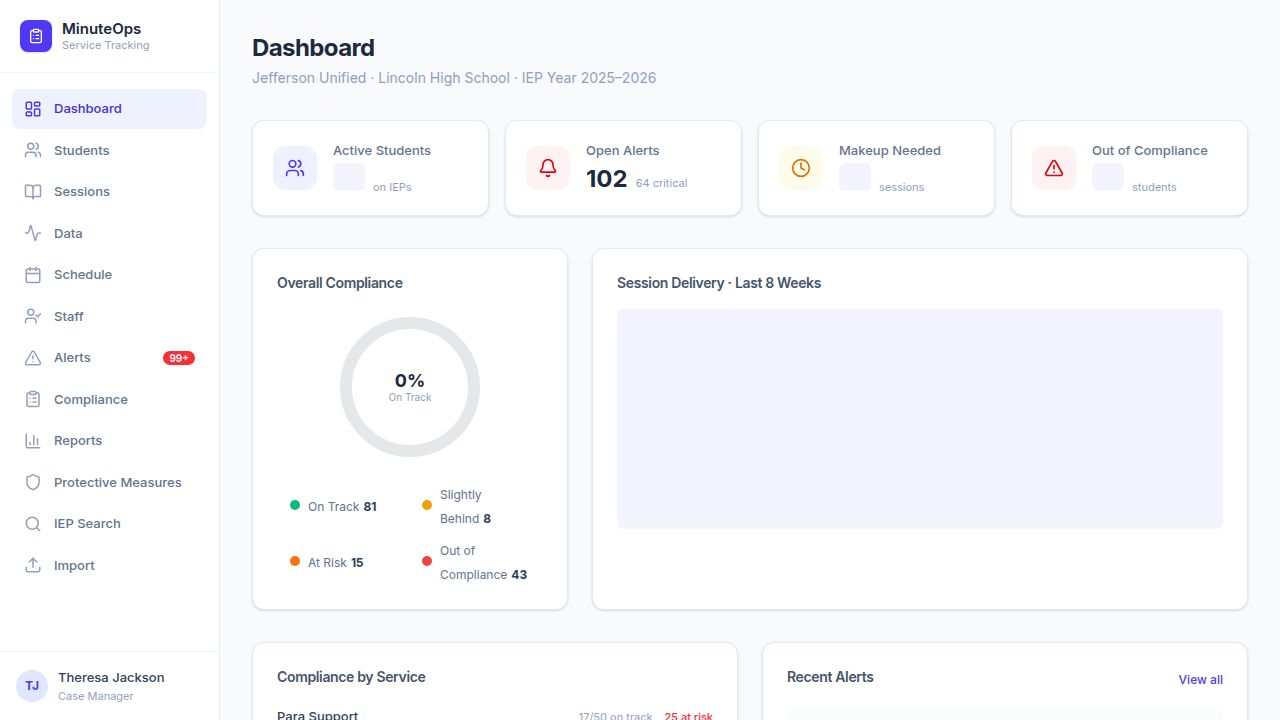
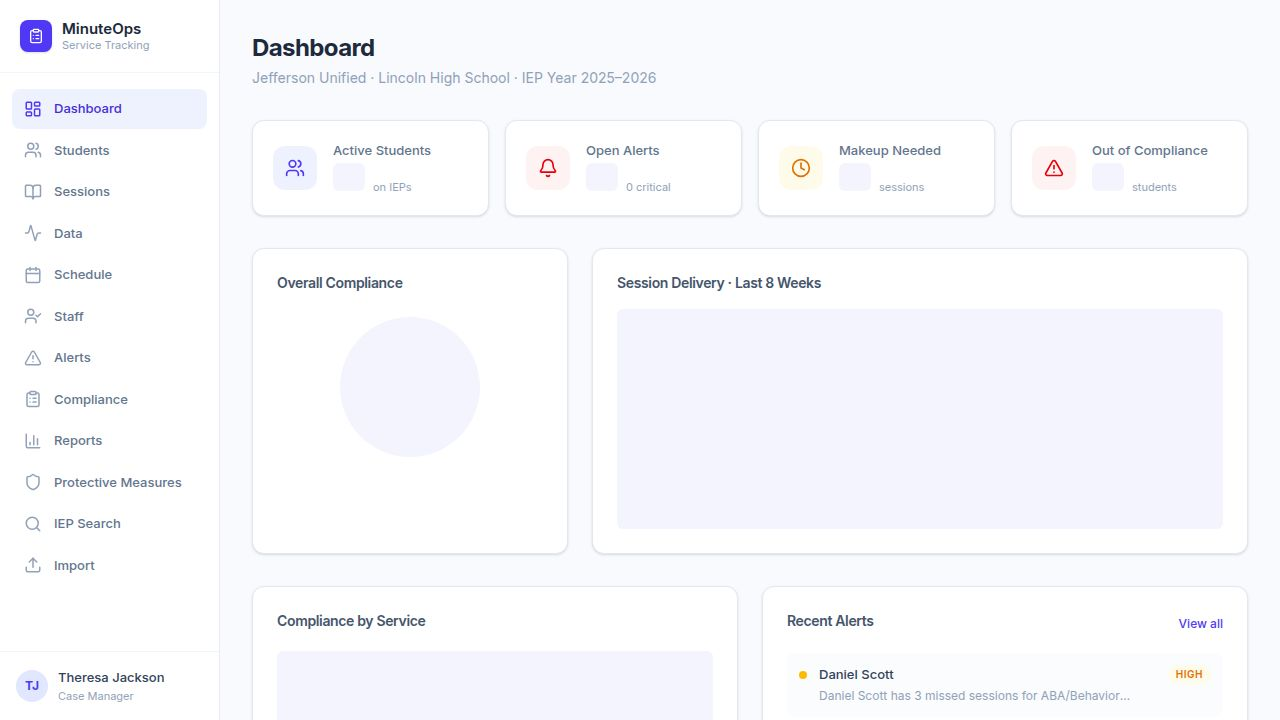
Adjust student service data to reduce compliance issues and makeups
Update seed data to reflect a more realistic distribution of student compliance, with only 10% of students out of compliance and significantly fewer makeup sessions.

Replit-Commit-Author: Agent
Replit-Commit-Session-Id: 75a33953-ab17-4bf2-92a9-e7ef3fbeea8b
Replit-Commit-Checkpoint-Type: full_checkpoint
Replit-Commit-Event-Id: 8d0e864b-658d-4018-82c6-5bcc16cfb7a4
Replit-Commit-Screenshot-Url: https://storage.googleapis.com/screenshot-production-us-central1/e07af80e-63e9-4ae5-a0cc-653c581de667/75a33953-ab17-4bf2-92a9-e7ef3fbeea8b/IY8QNKt
Replit-Helium-Checkpoint-Created: true

diff --git a/lib/db/src/seed-realistic-data.ts b/lib/db/src/seed-realistic-data.ts
@@ -464,12 +464,45 @@ export async function seedRealisticData() {
     cur.setDate(cur.getDate() + 1);
   }
 
+  const REALISTIC_MONTHLY: Record<number, number> = {
+    1: 240,
+    2: 90,
+    3: 90,
+    4: 120,
+    5: 300,
+    6: 90,
+    7: 90,
+    8: 120,
+  };
+
+  const struggleStudentIds = new Set([3, 12, 27, 38, 45]);
+
+  for (const sr of allSRs) {
+    let newRequired = REALISTIC_MONTHLY[sr.serviceTypeId] || 60;
+    if (struggleStudentIds.has(sr.studentId)) {
+      newRequired = Math.round(newRequired * 1.8);
+    }
+    const updates: any = { requiredMinutes: newRequired };
+    if (sr.intervalType === "weekly") {
+      updates.intervalType = "monthly";
+      sr.intervalType = "monthly";
+    }
+    sr.requiredMinutes = newRequired;
+    await db.update(serviceRequirementsTable)
+      .set(updates)
+      .where(eq(serviceRequirementsTable.id, sr.id));
+  }
+  console.log("  Adjusted service requirement minutes and intervals to realistic values");
+
+  const MIN_SESS_PER_WEEK: Record<number, number> = {
+    1: 3, 2: 2, 3: 2, 4: 2, 5: 3, 6: 2, 7: 2, 8: 2,
+  };
+
   const sessionBatch: any[] = [];
   for (const sr of allSRs) {
     const svc = SERVICE_DURATIONS[sr.serviceTypeId] || { typical: 30, min: 20, max: 45 };
-    let sessPerWeek = sr.intervalType === "weekly"
-      ? Math.max(1, Math.round(sr.requiredMinutes / svc.typical))
-      : Math.max(1, Math.round((sr.requiredMinutes / 4.3) / svc.typical));
+    const minSess = MIN_SESS_PER_WEEK[sr.serviceTypeId] || 1;
+    let sessPerWeek = Math.max(minSess, Math.round((sr.requiredMinutes / 4.3) / svc.typical));
     sessPerWeek = Math.min(sessPerWeek, 5);
 
     const preferred: number[] = [];
@@ -486,14 +519,19 @@ export async function seedRealisticData() {
     const progNames = (programTargetsByStudent[sr.studentId] || []).map(p => p.name);
     const svcGoals = goalsByStudentService[`${sr.studentId}-${sr.serviceTypeId}`] || [];
 
+    const isStruggling = struggleStudentIds.has(sr.studentId);
+
     let sessionIndex = 0;
     for (const date of schoolDays) {
       const dow = new Date(date + "T00:00:00").getDay();
       if (!preferred.includes(dow)) continue;
 
-      const month = parseInt(date.substring(5, 7));
-      let missRate = sr.serviceTypeId === 5 ? 0.06 : 0.13;
-      if (month === 12 || month === 1 || month === 2) missRate += 0.05;
+      let missRate: number;
+      if (isStruggling) {
+        missRate = 0.45;
+      } else {
+        missRate = 0.03;
+      }
       const isMissed = Math.random() < missRate;
 
       let duration = 0;
@@ -511,10 +549,10 @@ export async function seedRealisticData() {
         const missedReasons = [
           "Student absent from school.",
           "Provider absent — session rescheduled.",
-          "Student refused services; will attempt makeup.",
           "School-wide assembly conflicted with session time.",
-          "Student pulled for testing — makeup to be scheduled.",
+          "Student pulled for testing — session not held.",
           "Fire drill during scheduled session.",
+          "Student in crisis — services deferred.",
         ];
         notes = pick(missedReasons);
       }

diff --git a/replit.md b/replit.md
@@ -59,7 +59,7 @@ Database is seeded with realistic demo data:
 - 50 students across grades K-12 with varied disability categories
 - 18 staff (3 BCBAs, 2 SLPs, 2 OTs, 1 PT, 2 counselors, 6 paras, 2 case managers)
 - 187 IEP service requirements with staggered start/end dates
-- 8,035 session logs spanning Sep 2025-Apr 2026 with realistic durations by service type (ABA: 45-75min, OT/SLP: 20-45min, Para: 45-90min, BCBA: 15-45min), ~11% miss rate (higher in winter)
+- 12,238 session logs spanning Sep 2025-Apr 2026 with realistic durations by service type (ABA: 45-75min, OT/SLP: 20-45min, Para: 45-90min, BCBA: 15-45min), ~3% miss rate for compliant students, ~45% for 5 struggling students. Zero makeup sessions.
 - IEP documents with staggered start dates across the entire school year (Sep 2025 - Apr 2026), not all starting together
 - 42 behavior targets across 14 students with natural trend patterns (steady improvement, plateau-then-improve, regression-then-recovery)
 - 42 program targets across 14 students with varied learning curves and mastery tracking
